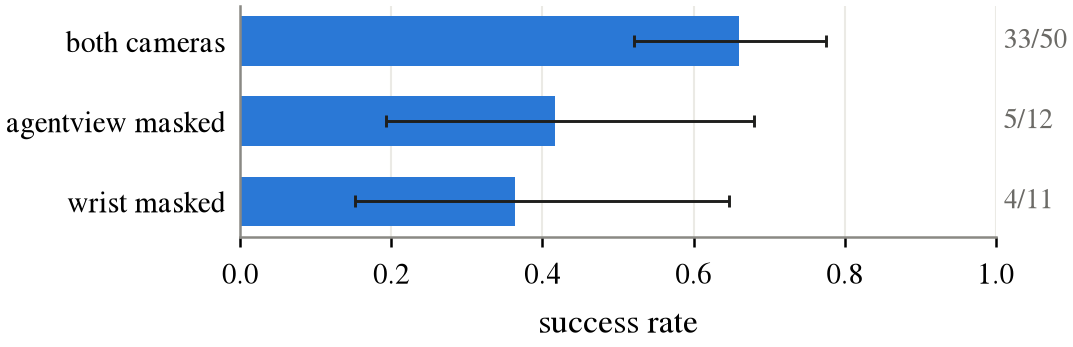
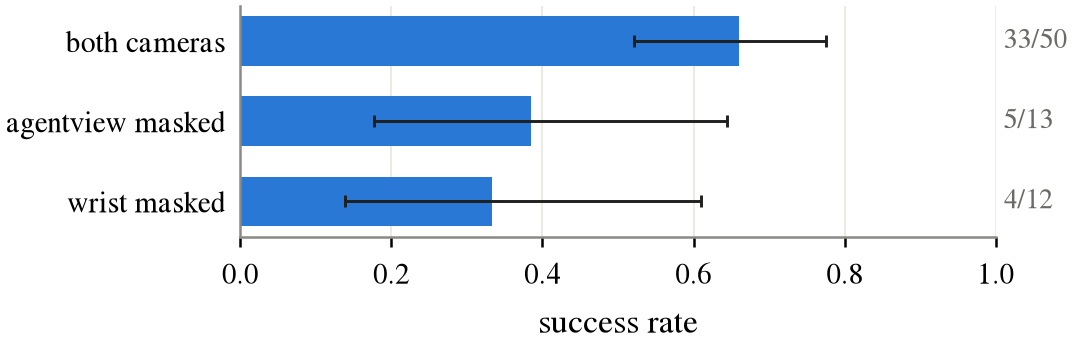
Fix variable clash in figure script

diff --git a/scripts/make_figures.py b/scripts/make_figures.py
@@ -94,16 +94,16 @@ if lv is not None:
     # all tasks, otherwise the diagonal of the swap matrix (episodes 0-2).
     bg = load("baseline_goal")
     if bg is not None and bg.task_id.nunique() == 10:
-        ref = bg[bg.episode < lv.episode.max() + 1].copy()
+        lang_ref = bg[bg.episode < lv.episode.max() + 1].copy()
         ref_name = "original wording"
     else:
-        ref = lm[lm.said == lm.task_id].copy()
+        lang_ref = lm[lm.said == lm.task_id].copy()
         ref_name = "original wording (eps 0-2)"
-    ref["label"] = ref_name
+    lang_ref["label"] = ref_name
     lv = lv.copy()
     names = {"paraphrase_0": "paraphrase, close", "paraphrase_1": "paraphrase, reworded", "paraphrase_2": "paraphrase, distant", "empty": "empty string", "absurd": "\u201csing a song\u201d"}
     lv["label"] = lv["variant"].map(names)
-    allv = pd.concat([ref[["label", "success", "task_id", "episode"]], lv[["label", "success", "task_id", "episode"]]])
+    allv = pd.concat([lang_ref[["label", "success", "task_id", "episode"]], lv[["label", "success", "task_id", "episode"]]])
     t = rate_table(allv, ["label"])
     order = [ref_name] + list(names.values())
     t["o"] = t["label"].map({k: i for i, k in enumerate(order)})
@@ -271,7 +271,7 @@ if "light_dimming" in curves:
 if lv is not None:
     pp = lv[lv.condition == "paraphrase"]
     macros["LangPara"] = frac(int(pp.success.sum()), len(pp))
-    macros["LangOrig"] = frac(int(ref.success.sum()), len(ref))
+    macros["LangOrig"] = frac(int(lang_ref.success.sum()), len(lang_ref))
     for k, nm in zip(["paraphrase_0", "paraphrase_1", "paraphrase_2"], ["Close", "Reworded", "Distant"]):
         g = pp[pp.variant == k]
         macros[f"LangPara{nm}"] = f"{int(g.success.sum())}/{len(g)}"

diff --git a/report/numbers.tex b/report/numbers.tex
@@ -15,6 +15,7 @@
 \newcommand{\LangOffEnvFrac}{0/270}
 \newcommand{\LangOffInstructed}{73\%}
 \newcommand{\LangOffInstructedFrac}{197/270 (73\%, CI 67--78)}
+\newcommand{\LangOrig}{40/50 (80\%, CI 67--89)}
 \newcommand{\LangOther}{2/270}
 \newcommand{\LangPara}{35/150 (23\%, CI 17--31)}
 \newcommand{\LangParaClose}{20/50}
@@ -54,4 +55,4 @@
 \newcommand{\RobotXfiftyCI}{[0.05, 0.11]}
 \newcommand{\RobotXfiftyInterp}{0.048}
 \newcommand{\RobotXfiftyInterpCI}{[0.031, 0.082]}
-\newcommand{\TotalEpisodes}{1\,907}
+\newcommand{\TotalEpisodes}{1\,910}
